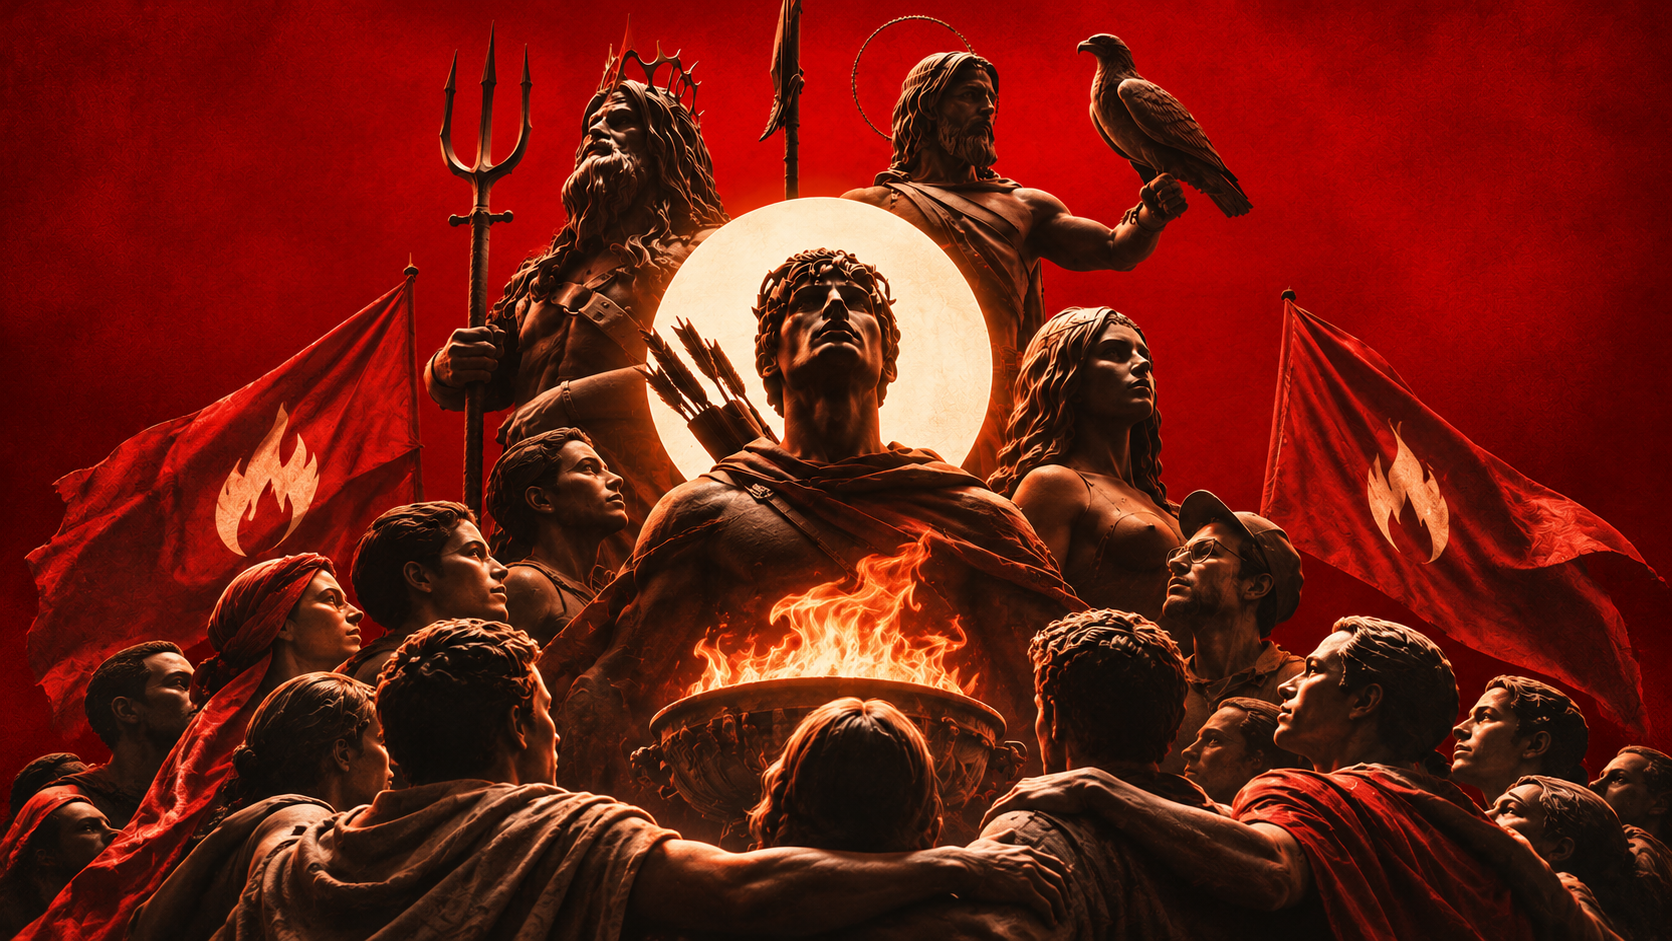
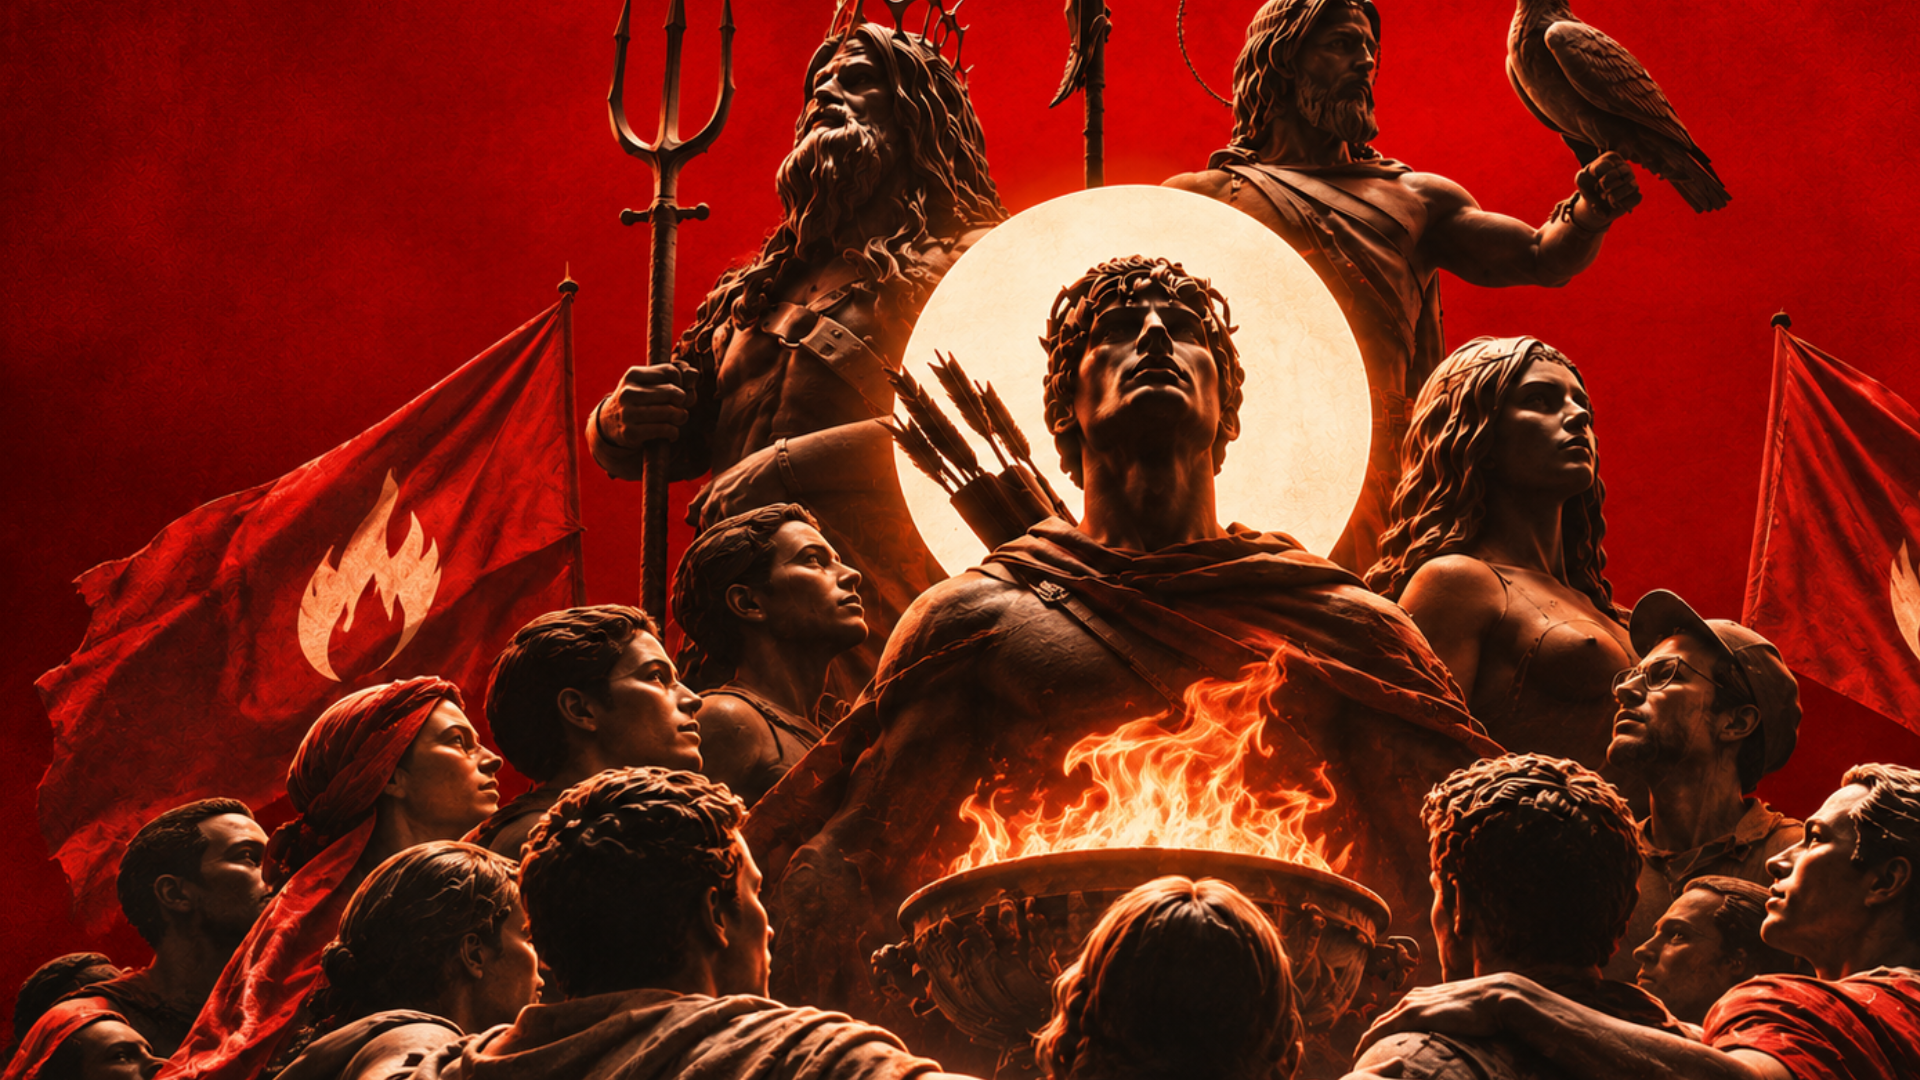
feat(web): update the gathering artwork and re-centre its fire crop

diff --git a/web/src/components/brand/assets.ts b/web/src/components/brand/assets.ts
@@ -10,7 +10,7 @@ export const ASSETS = {
   /** Master artwork: a torch-bearing crowd (transparent PNG). */
   crowd: { src: "/img/crowd.png", width: 2160, height: 1215, flame: { x: 57, y: 13, rx: 17, ry: 17 } },
   /** The gathering: a crowd around the communal fire under flame banners (opaque, already red). */
-  hearth: { src: "/img/hero1.png", width: 1672, height: 941, flame: { x: 50, y: 66, rx: 14, ry: 12 } },
+  hearth: { src: "/img/hero1.png", width: 1920, height: 1080, flame: { x: 60, y: 74, rx: 14, ry: 12 } },
 } satisfies Record<string, Asset>;
 
 export type AssetName = keyof typeof ASSETS;
@@ -21,7 +21,7 @@ export const SHOTS = {
   /** The whole gathering around the communal fire. */
   assembly: { asset: "hearth", x: 50, y: 50, zoom: 1 },
   /** The communal fire itself: the Hearth. */
-  brazier: { asset: "hearth", x: 50, y: 64, zoom: 2 },
+  brazier: { asset: "hearth", x: 60, y: 70, zoom: 1.8 },
   /** Everyone. */
   gathering: { asset: "crowd", x: 50, y: 55, zoom: 1 },
   /** The lone torch: the spark. */
